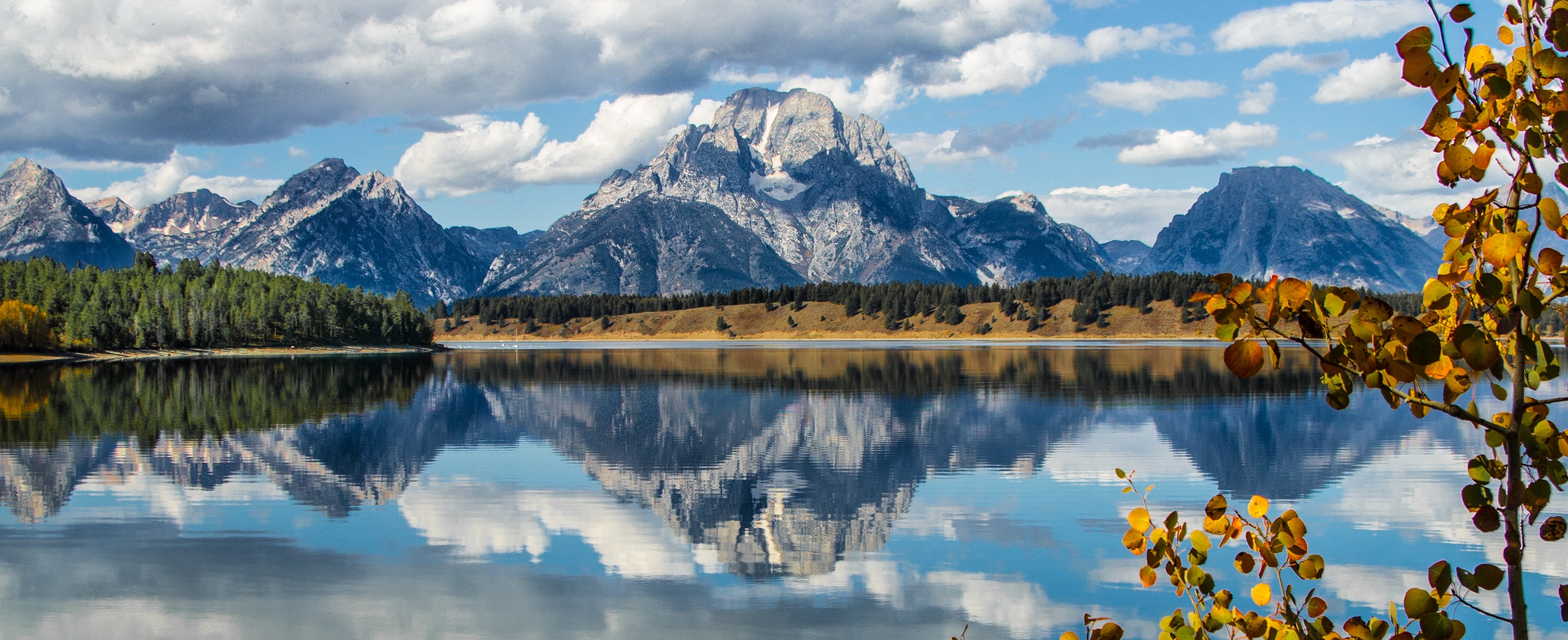
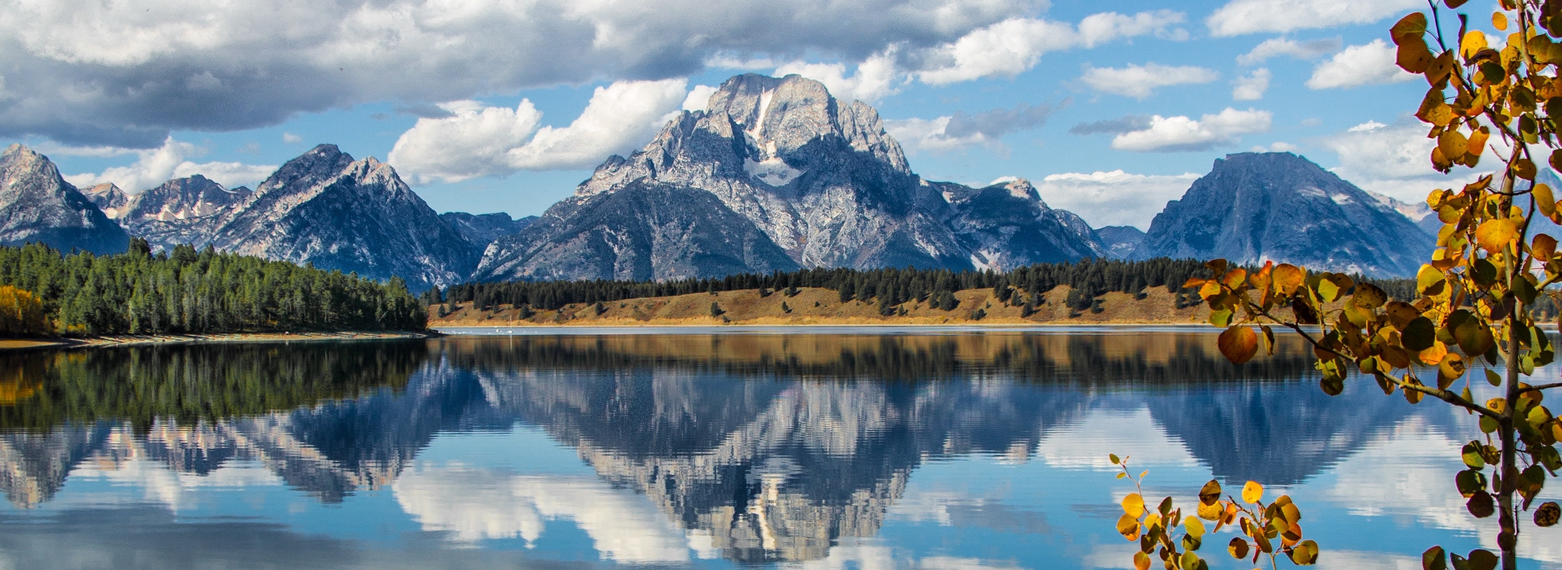
Create components for procedures and contact, add images of Tetons

diff --git a/src/components/App/App.js b/src/components/App/App.js
@@ -4,6 +4,7 @@ import Home from '../Home/Home';
 import MeetDoctor from '../MeetDoctor/MeetDoctor';
 import Patients from '../Patients/Patients'
 import Contact from '../Contact/Contact'
+import Procedures from '../Procedures/Procedures'
 
 class App extends Component {
   render() {
@@ -22,6 +23,7 @@ class App extends Component {
           <Route path='/meet' component={MeetDoctor} />
           <Route path='/patients' component={Patients} />
           <Route path='/contact' component={Contact} />
+          <Route path='/procedures' component={Procedures} />
         </Switch>
         <p className='copyright'>Jackson Oral and Facial Surgery &copy; 2019</p>
       </div>

diff --git a/src/components/Procedures/Procedures.js b/src/components/Procedures/Procedures.js
@@ -1,0 +1,14 @@
+import React from 'react'
+import tetons3 from '../../assets/tetons3.jpg'
+
+const Procedures = () => {
+
+  return (
+    <div>
+      <h1 className='patient-care-header'>Procedures and Services</h1>
+      <img src={tetons3} alt="The Tetons" className='tetons'/>
+    </div>
+  )
+}
+
+export default Procedures

diff --git a/src/components/Contact/Contact.js b/src/components/Contact/Contact.js
@@ -1,10 +1,12 @@
 import React from 'react'
+import tetons2 from '../../assets/tetons2.jpg'
 
 const Contact = () => {
 
   return (
     <div>
       <h1 className='patient-care-header'>Contact Us</h1>
+      <img src={tetons2} alt="The Tetons" className='tetons'/>
     </div>
   )
 }
